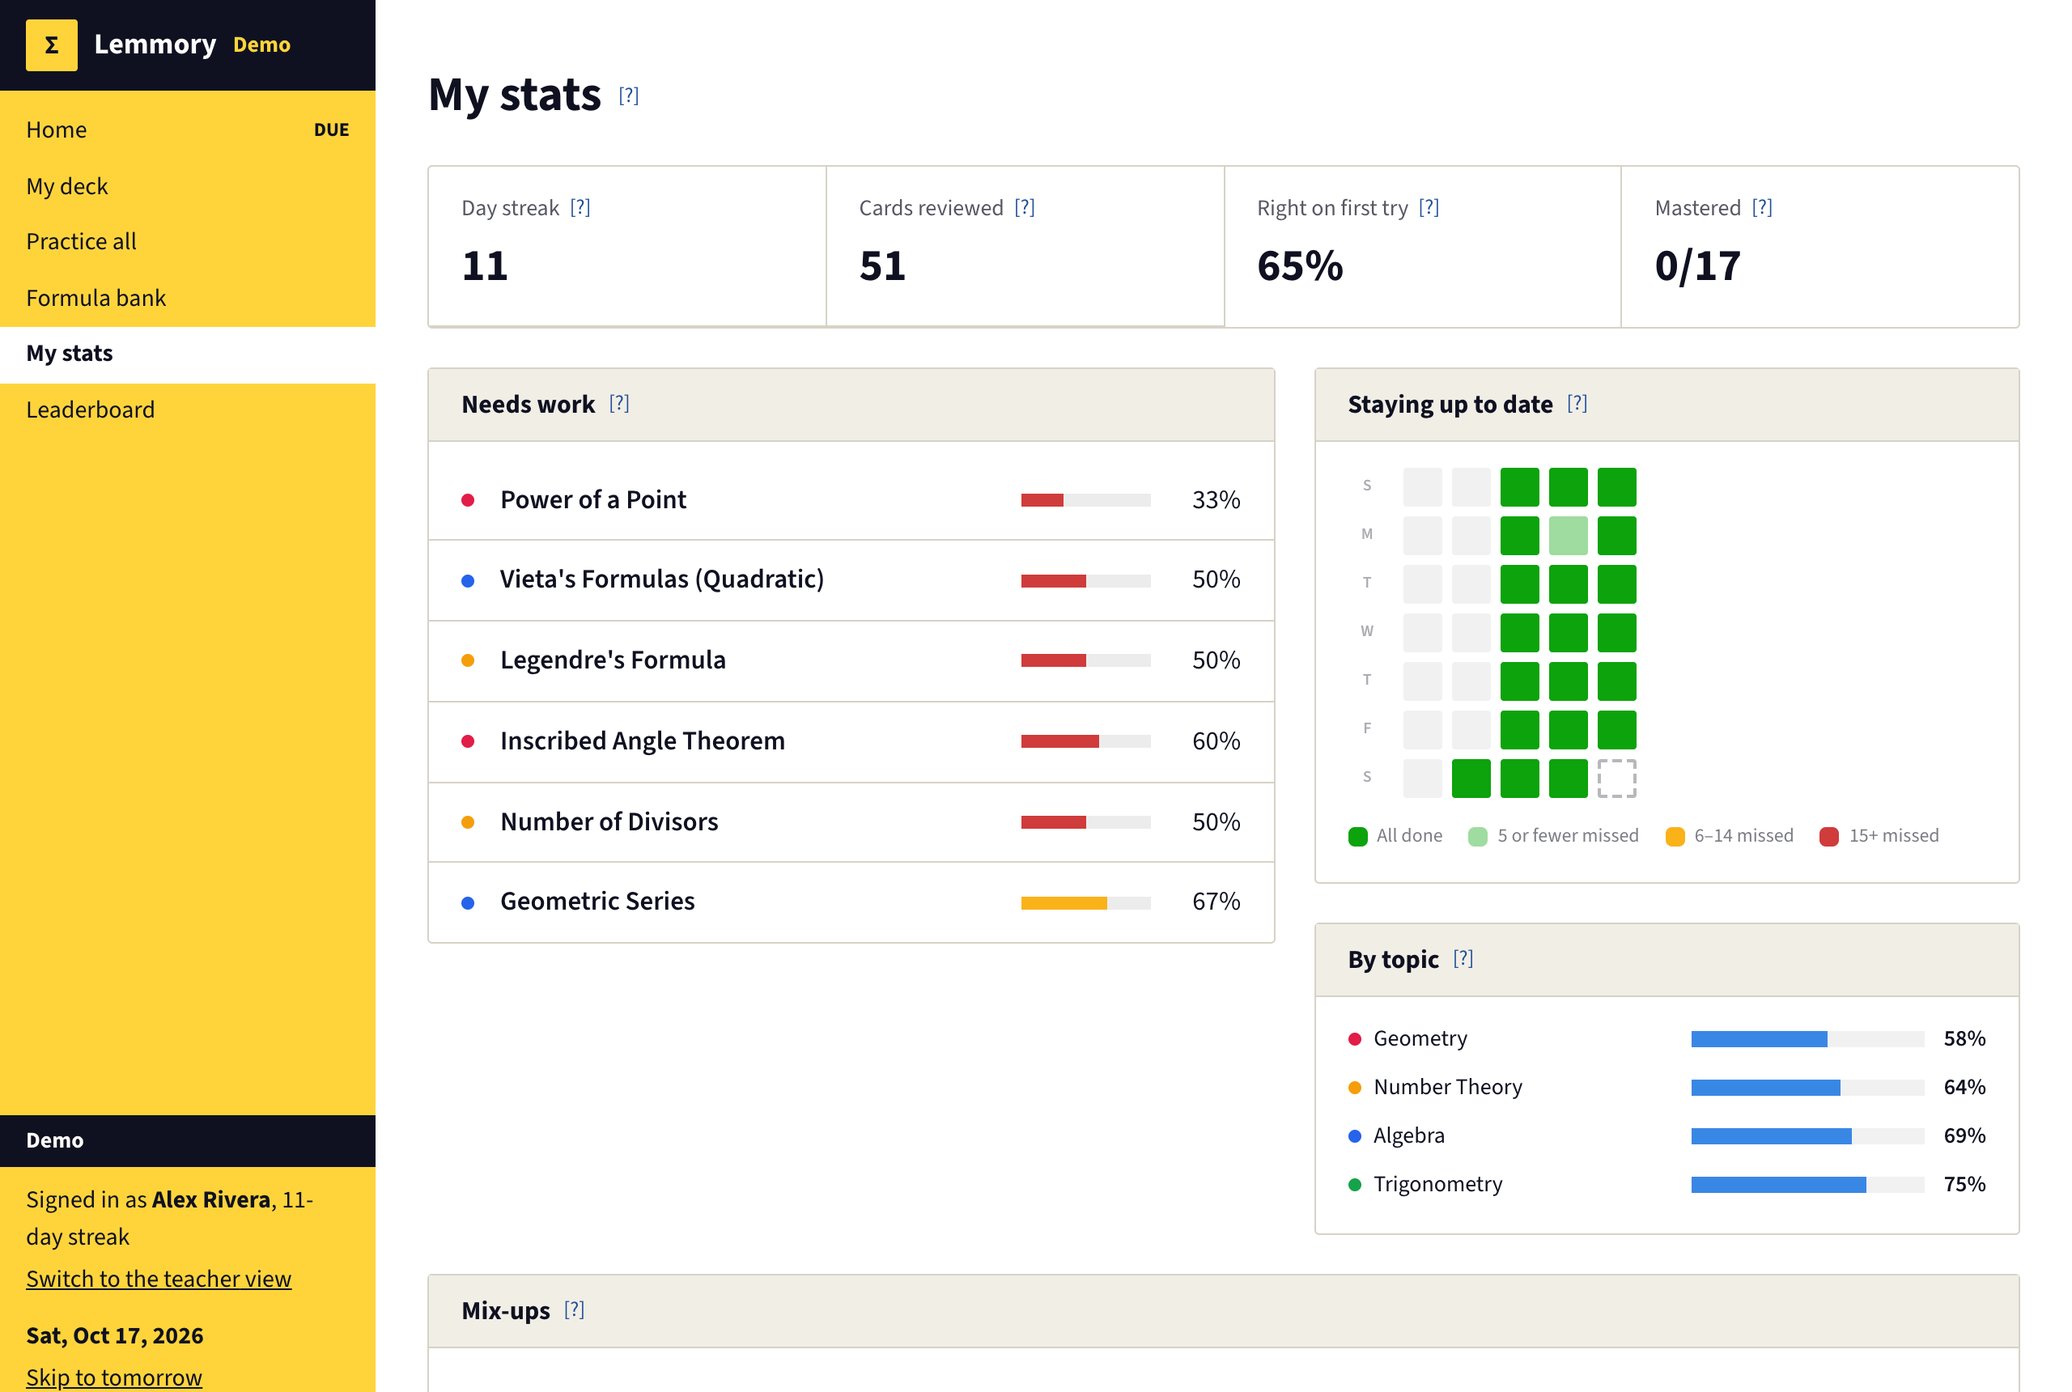
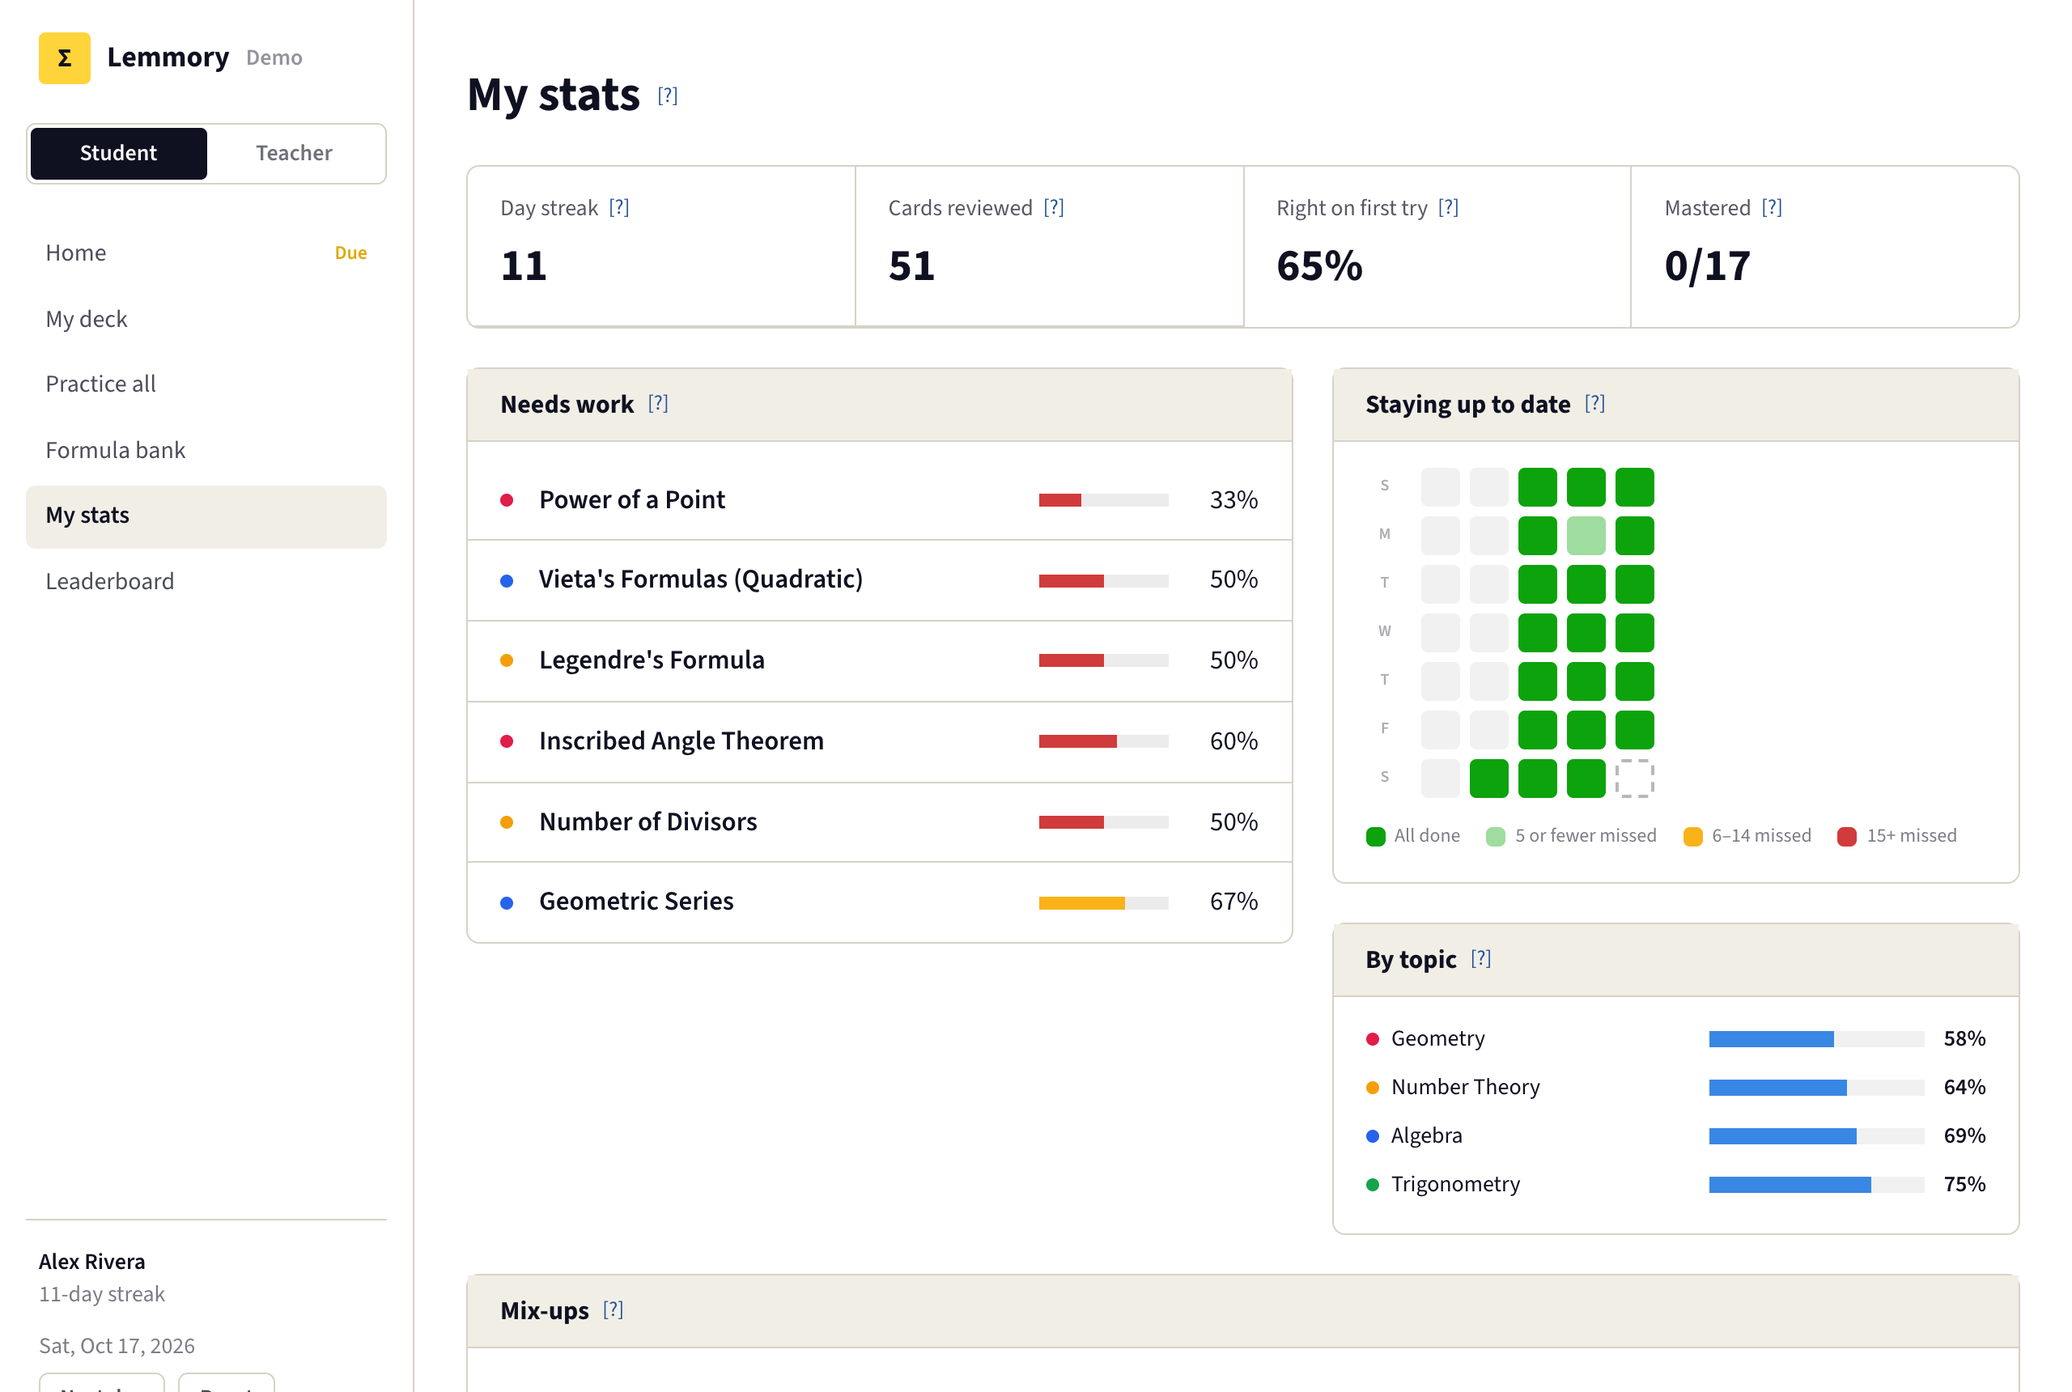
Product sidebar: back to white with plain links, Student | Teacher switch on top, tidy footer; gentle rounding

diff --git a/packages/ui/src/Shell.tsx b/packages/ui/src/Shell.tsx
@@ -30,38 +30,31 @@ export function Logo({ tag, light }: { tag?: string; light?: boolean }) {
     <span className={cx("flex items-center gap-2.5 text-lg font-extrabold tracking-tight", light && "text-white")}>
       <LogoMark />
       Lemmory
-      {tag &&
-        (light ? (
-          <span className="text-sm font-bold tracking-normal text-lemon">{tag}</span>
-        ) : (
-          <span className="rounded-md bg-ink/5 px-1.5 py-0.5 text-[11px] font-bold tracking-normal text-ink/50">{tag}</span>
-        ))}
+      {tag && <span className={cx("text-sm font-semibold tracking-normal", light ? "text-lemon" : "text-ink/45")}>{tag}</span>}
     </span>
   );
 }
 
-/** A dark heading strip that starts a group of sidebar links. */
-export function SideHeading({ children }: { children: React.ReactNode }) {
-  return <p className="bg-ink px-4 py-1.5 text-sm font-bold text-white">{children}</p>;
-}
-
-/** A plain sidebar link. The current page is bold on white; `due` flags today's unfinished review. */
+/** A sidebar link: plain text, with a soft highlight on the current page. `due` flags today's unfinished review. */
 export function SideLink({ href, active, due, children }: { href: string; active?: boolean; due?: boolean; children: React.ReactNode }) {
   return (
     <Link
       href={href}
       aria-current={active ? "page" : undefined}
-      className={cx("flex items-center justify-between gap-2 px-4 py-1.5 text-[15px] text-ink", active ? "bg-white font-bold" : "hover:underline")}
+      className={cx(
+        "flex items-center justify-between gap-2 rounded-lg px-3 py-2 text-[15px] transition-colors",
+        active ? "bg-paper font-semibold text-ink" : "text-ink/75 hover:bg-paper/60 hover:text-ink",
+      )}
     >
       {children}
-      {due && <span className="text-xs font-bold uppercase">Due</span>}
+      {due && <span className="text-xs font-semibold text-lemon-deep">Due</span>}
     </Link>
   );
 }
 
 /**
- * The product's frame: a solid yellow sidebar with plain links on desktop, and a dark bar with
- * a row of links on phones. Adds class="product", which switches on the plain product look.
+ * The product's frame: a white sidebar with plain links on desktop, and a top bar with a row
+ * of links on phones. Adds class="product", which switches on the plain product look.
  */
 export function Frame({
   home,
@@ -77,53 +70,51 @@ export function Frame({
   /** Shown above the links, e.g. a class switcher. */
   above?: React.ReactNode;
   nav: { href: string; label: string; active: boolean; due?: boolean }[];
-  /** Groups under the links, pinned to the bottom (account, demo controls). */
+  /** Pinned to the bottom of the sidebar: who's signed in, log out, demo controls. */
   below?: React.ReactNode;
   /** Extra controls in the phone top bar. */
   mobileExtra?: React.ReactNode;
   children: React.ReactNode;
 }) {
   return (
-    <div className="product min-h-screen bg-canvas lg:grid lg:grid-cols-[232px_minmax(0,1fr)]">
-      <div className="hidden bg-lemon lg:block">
-        <aside className="sticky top-0 flex h-screen flex-col overflow-y-auto">
-          <Link href={home} className="block bg-ink px-4 py-3">
-            <Logo tag={tag} light />
+    <div className="product min-h-screen bg-canvas lg:grid lg:grid-cols-[256px_minmax(0,1fr)]">
+      <div className="hidden border-r border-line bg-white lg:block">
+        <aside className="sticky top-0 flex h-screen flex-col overflow-y-auto px-4 py-5">
+          <Link href={home} className="px-2">
+            <Logo tag={tag} />
           </Link>
-          {above && <div className="px-4 py-3">{above}</div>}
-          <nav className={cx(!above && "pt-2")}>
+          {above && <div className="mt-6">{above}</div>}
+          <nav className="mt-6 space-y-0.5">
             {nav.map((it) => (
               <SideLink key={it.href} href={it.href} active={it.active} due={it.due}>
                 {it.label}
               </SideLink>
             ))}
           </nav>
-          {below && <div className="mt-auto pt-6">{below}</div>}
+          {below && <div className="mt-auto border-t border-line px-2 pt-4">{below}</div>}
         </aside>
       </div>
 
-      <header className="sticky top-0 z-30 lg:hidden">
-        <div className="flex items-center gap-3 bg-ink px-4 py-2.5">
+      <header className="sticky top-0 z-30 border-b border-line bg-white lg:hidden">
+        <div className="flex items-center gap-3 px-4 py-3">
           <Link href={home}>
-            <Logo tag={tag} light />
+            <Logo tag={tag} />
           </Link>
-          <div className="ml-auto flex items-center gap-3 text-sm text-white">{mobileExtra}</div>
+          <div className="ml-auto flex items-center gap-3 text-sm">{mobileExtra}</div>
         </div>
-        <div className="bg-lemon">
-          {above && <div className="px-4 pt-2">{above}</div>}
-          <nav className="flex overflow-x-auto [scrollbar-width:none]">
-            {nav.map((it) => (
-              <Link
-                key={it.href}
-                href={it.href}
-                aria-current={it.active ? "page" : undefined}
-                className={cx("shrink-0 px-3 py-2 text-sm text-ink", it.active ? "bg-white font-bold" : "hover:underline")}
-              >
-                {it.label}
-              </Link>
-            ))}
-          </nav>
-        </div>
+        {above && <div className="px-4 pb-2">{above}</div>}
+        <nav className="flex gap-1 overflow-x-auto px-3 pb-2 [scrollbar-width:none]">
+          {nav.map((it) => (
+            <Link
+              key={it.href}
+              href={it.href}
+              aria-current={it.active ? "page" : undefined}
+              className={cx("shrink-0 rounded-lg px-3 py-1.5 text-sm", it.active ? "bg-paper font-semibold text-ink" : "text-ink/70")}
+            >
+              {it.label}
+            </Link>
+          ))}
+        </nav>
       </header>
 
       <main className="mx-auto w-full max-w-6xl px-4 py-6 sm:px-8 lg:py-10">{children}</main>
@@ -131,13 +122,13 @@ export function Frame({
   );
 }
 
-/** A plain dark top bar, for product pages that have no sidebar (like picking a plan). */
+/** A plain top bar, for product pages that have no sidebar (like picking a plan). */
 export function TopBar({ tag, home = "/", width = "max-w-5xl", children }: { tag?: string; home?: string; width?: string; children?: React.ReactNode }) {
   return (
-    <header className="bg-ink">
-      <div className={cx("mx-auto flex items-center justify-between px-5 py-3 text-sm text-white", width)}>
+    <header className="border-b border-line bg-white">
+      <div className={cx("mx-auto flex items-center justify-between px-5 py-4 text-sm", width)}>
         <Link href={home}>
-          <Logo tag={tag} light />
+          <Logo tag={tag} />
         </Link>
         {children}
       </div>
@@ -168,7 +159,7 @@ export function Shell({
     it.exact ? path === it.href || !!it.also?.includes(path) : path === it.href || path.startsWith(it.href + "/");
   const logout = (
     <form action={onLogout}>
-      <button className="underline">Log out</button>
+      <button className="text-sm font-semibold text-ink/60 hover:text-ink">Log out</button>
     </form>
   );
 
@@ -179,13 +170,10 @@ export function Shell({
       above={above}
       nav={nav.map((it) => ({ href: it.href, label: it.label, active: isActive(it), due: it.dot }))}
       below={
-        <>
-          <SideHeading>Account</SideHeading>
-          <div className="space-y-1 px-4 py-2.5 text-[15px] text-ink">
-            {footer}
-            {logout}
-          </div>
-        </>
+        <div className="flex items-end justify-between gap-3">
+          <div className="min-w-0 text-sm">{footer}</div>
+          {logout}
+        </div>
       }
       mobileExtra={logout}
     >

diff --git a/apps/site/components/shell/AppShell.tsx b/apps/site/components/shell/AppShell.tsx
@@ -2,7 +2,7 @@
 
 import Link from "next/link";
 import { usePathname } from "next/navigation";
-import { Frame, SideHeading } from "@lemmory/ui/Shell";
+import { Frame } from "@lemmory/ui/Shell";
 import { useStore } from "@/lib/store";
 import { YOU } from "@/lib/sim";
 import { streak } from "@/lib/analytics";
@@ -64,13 +64,29 @@ export function AppShell({ role, children }: { role: Role; children: React.React
   const isActive = (href: string, exact?: boolean) =>
     exact ? path === href || (href === "/student" && path === "/student/review") : path === href || path.startsWith(href + "/");
 
-  const other: Role = role === "student" ? "teacher" : "student";
-  const control = "block underline disabled:pointer-events-none disabled:no-underline disabled:opacity-40";
+  const small = "h-8 rounded-lg border border-line bg-white px-3 text-sm font-semibold text-ink/75 hover:border-ink/30 hover:text-ink disabled:pointer-events-none disabled:opacity-40";
+
+  // Student | Teacher: both views share one simulated class.
+  const switcher = (
+    <div className="grid grid-cols-2 rounded-lg border border-line p-0.5 text-sm font-semibold">
+      {(["student", "teacher"] as const).map((r) => (
+        <Link
+          key={r}
+          href={`/${r}`}
+          aria-current={r === role ? "page" : undefined}
+          className={cx("rounded-md py-1.5 text-center capitalize transition-colors", r === role ? "bg-ink text-white" : "text-ink/60 hover:text-ink")}
+        >
+          {r}
+        </Link>
+      ))}
+    </div>
+  );
 
   return (
     <Frame
       home={`/${role}`}
       tag="Demo"
+      above={switcher}
       nav={items.map((it) => ({
         href: it.href,
         label: it.label,
@@ -78,53 +94,40 @@ export function AppShell({ role, children }: { role: Role; children: React.React
         due: it.href === "/student" && ready && !doneToday,
       }))}
       below={
-        <>
-          <SideHeading>Demo</SideHeading>
-          <div className="space-y-1 px-4 py-2.5 text-[15px] text-ink">
-            <p>
-              {role === "student" ? (
-                <>
-                  Signed in as <b>{YOU.name}</b>
-                  {ready && `, ${s}-day streak`}
-                </>
-              ) : (
-                <>
-                  Signed in as <b>Ms. Chen</b>
-                </>
-              )}
+        <div className="space-y-3 text-sm">
+          <div>
+            <p className="font-semibold">{role === "student" ? YOU.name : "Ms. Chen"}</p>
+            <p className="text-ink/55">{role === "student" ? (ready ? `${s}-day streak` : "\u00a0") : "Teacher"}</p>
+          </div>
+          <div>
+            <p className="text-ink/55">
+              {ready ? fmtDay(today) : "\u00a0"}
+              {state.dayOffset > 0 && ` (+${state.dayOffset})`}
             </p>
-            <Link href={`/${other}`} className="block underline">
-              Switch to the {other} view
-            </Link>
-            <p className="pt-2 font-bold">{ready ? fmtDay(today) : "\u00a0"}</p>
-            {state.dayOffset > 0 && <p>{`${state.dayOffset} day${state.dayOffset === 1 ? "" : "s"} ahead of today`}</p>}
-            <button onClick={nextDay} disabled={atLimit} className={control}>
-              Skip to tomorrow
-            </button>
+            <div className="mt-1.5 flex gap-2">
+              <button onClick={nextDay} disabled={atLimit} className={small}>
+                Next day
+              </button>
+              <button onClick={() => confirm("Reset all demo data?") && reset()} className={small}>
+                Reset
+              </button>
+            </div>
             {atLimit && (
-              <p className="text-sm">
+              <p className="mt-2 text-ink/60">
                 The demo runs {DEMO_MAX_DAYS} days ahead.{" "}
-                <a href={SIGNUP_URL} className="font-semibold underline">
+                <a href={SIGNUP_URL} className="font-semibold text-ink underline">
                   Start a pilot
                 </a>{" "}
                 to use it with a real class.
               </p>
             )}
-            <button onClick={() => confirm("Reset all demo data?") && reset()} className={control}>
-              Reset demo
-            </button>
           </div>
-        </>
+        </div>
       }
       mobileExtra={
-        <>
-          <Link href={`/${other}`} className="underline capitalize">
-            {other} view
-          </Link>
-          <button onClick={nextDay} disabled={atLimit} className="underline disabled:opacity-40">
-            Next day
-          </button>
-        </>
+        <button onClick={nextDay} disabled={atLimit} className={small}>
+          Next day
+        </button>
       }
     >
       {children}

diff --git a/apps/student/app/(app)/StudentShell.tsx b/apps/student/app/(app)/StudentShell.tsx
@@ -34,7 +34,7 @@ export function StudentShell({
             value={classId ?? ""}
             disabled={pending}
             onChange={(e) => (e.target.value === "join" ? router.push("/class") : start(() => switchClass(e.target.value)))}
-            className="h-9 w-full border border-ink/30 bg-white px-2 text-sm font-semibold outline-none focus:border-ink"
+            className="h-10 w-full rounded-lg border border-line bg-white px-3 text-sm font-semibold outline-none focus:border-ink"
           >
             {classes.map((c) => (
               <option key={c.id} value={c.id}>
@@ -56,10 +56,10 @@ export function StudentShell({
       ]}
       footer={
         <>
-          <p className="truncate" title={current?.name}>
-            Signed in as <b>{name}</b>
+          <p className="truncate font-semibold" title={current?.name}>
+            {name}
           </p>
-          <p>{streak ? `${streak}-day streak` : "No streak yet"}</p>
+          <p className="text-ink/55">{streak ? `${streak}-day streak` : "No streak yet"}</p>
         </>
       }
     >

diff --git a/apps/teacher/app/(app)/c/[classId]/TeacherShell.tsx b/apps/teacher/app/(app)/c/[classId]/TeacherShell.tsx
@@ -28,7 +28,7 @@ export function TeacherShell({
           aria-label="Class"
           value={classId}
           onChange={(e) => router.push(e.target.value === "new" ? "/new" : `/c/${e.target.value}`)}
-          className="h-9 w-full border border-ink/30 bg-white px-2 text-sm font-semibold outline-none focus:border-ink"
+          className="h-10 w-full rounded-lg border border-line bg-white px-3 text-sm font-semibold outline-none focus:border-ink"
         >
           {classes.map((c) => (
             <option key={c.id} value={c.id}>
@@ -48,9 +48,12 @@ export function TeacherShell({
         { href: "/plan", label: "Plan & billing" },
       ]}
       footer={
-        <p className="truncate" title={className}>
-          Signed in as <b>{teacher}</b>
-        </p>
+        <>
+          <p className="truncate font-semibold" title={className}>
+            {teacher}
+          </p>
+          <p className="text-ink/55">Teacher</p>
+        </>
       }
     >
       {children}

diff --git a/packages/ui/src/theme.css b/packages/ui/src/theme.css
@@ -57,18 +57,18 @@ body {
 
 /*
  * The product (the demo and the student and teacher apps) is plain and solid, like a
- * well-kept reference site: white paper, square corners, sans-serif headings, no shadows.
+ * well-kept reference site: white paper, gently rounded corners, sans-serif headings, no shadows.
  * The marketing pages keep the softer look above. Shells add class="product".
  */
 .product {
   --color-canvas: #ffffff;
   --color-line: #d6d2c6;
-  --radius-sm: 2px;
-  --radius-md: 2px;
-  --radius-lg: 2px;
-  --radius-xl: 3px;
-  --radius-2xl: 3px;
-  --radius-3xl: 3px;
+  --radius-sm: 3px;
+  --radius-md: 4px;
+  --radius-lg: 6px;
+  --radius-xl: 6px;
+  --radius-2xl: 8px;
+  --radius-3xl: 8px;
   --font-weight-extrabold: 700;
 }
 /* Table header rows get the same shaded bar as box titles. */

diff --git a/apps/site/components/site/ProductTour.tsx b/apps/site/components/site/ProductTour.tsx
@@ -25,7 +25,7 @@ const VIEWS = [
     title: "Assign this week's formulas",
     body: "Teachers pick formulas from the bank as the course covers them. Each one goes into every student's deck with one click.",
     src: "/shots/teacher-assign.png",
-    w: 1560,
+    w: 1512,
     h: 1000,
     alt: "Teacher's Assign formulas page listing algebra formulas, most marked Assigned",
   },

diff --git a/apps/teacher/app/(app)/LogoutButton.tsx b/apps/teacher/app/(app)/LogoutButton.tsx
@@ -3,7 +3,7 @@ import { logout } from "../actions";
 export function LogoutButton() {
   return (
     <form action={logout}>
-      <button className="underline">Log out</button>
+      <button className="font-semibold text-ink/60 hover:text-ink">Log out</button>
     </form>
   );
 }
